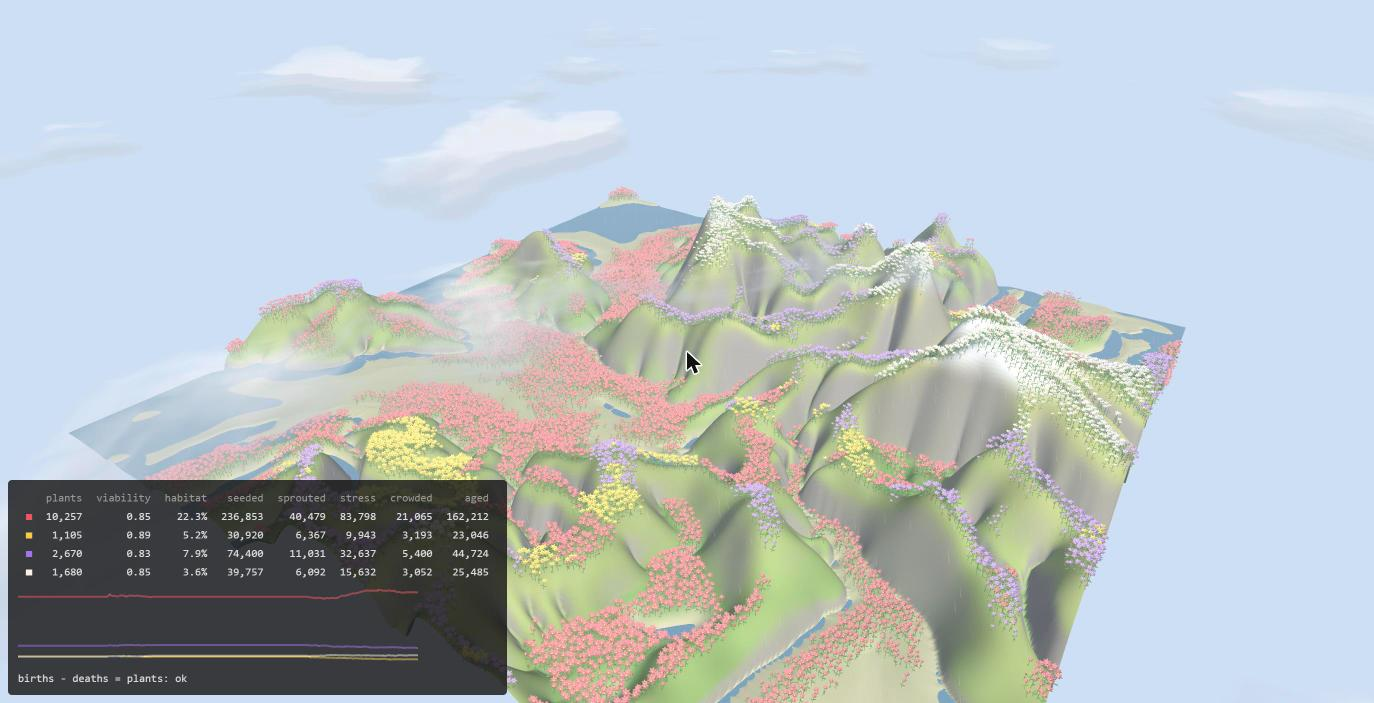
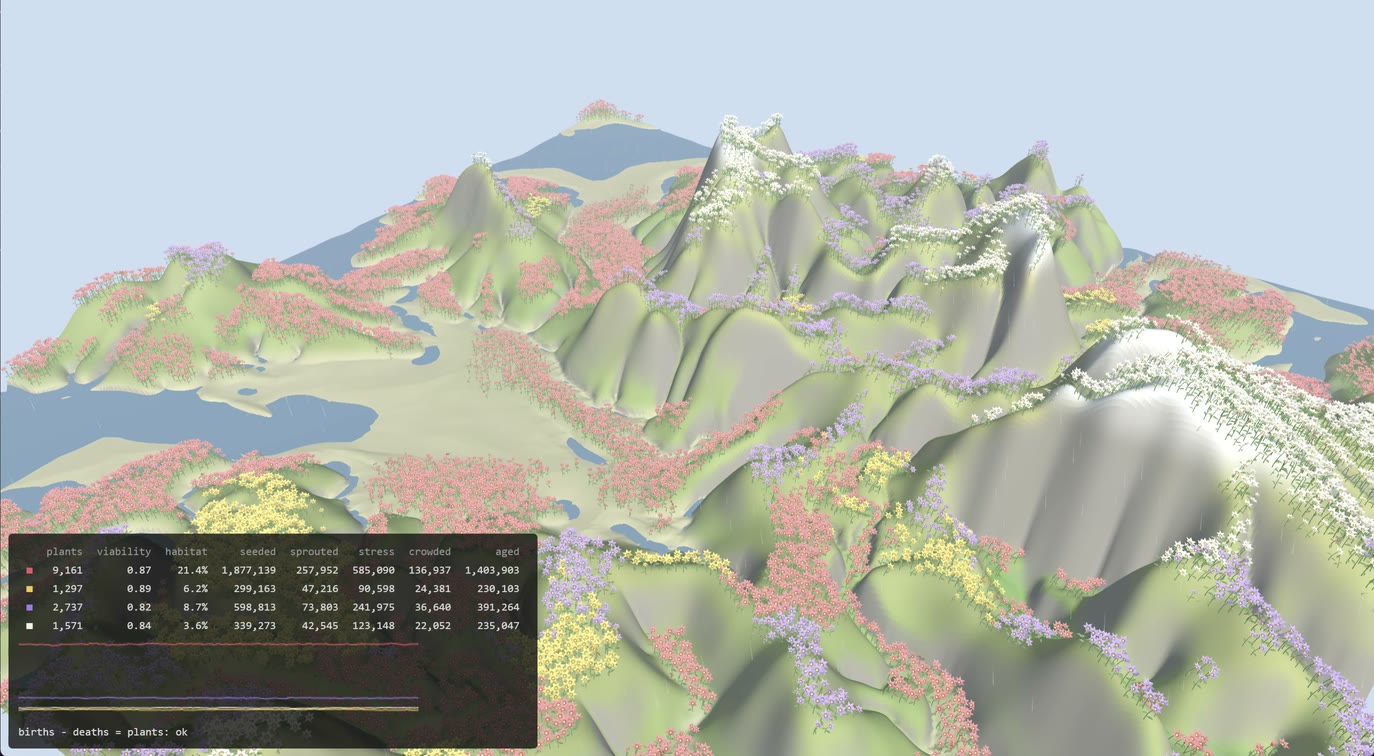
readme: ecosystem M1 write-up, new M2 pictures

diff --git a/README.md b/README.md
@@ -81,10 +81,20 @@ M1 timing (the M1 passes and defaults, before the M2 transport rewrite): one ful
 
 ### Ecosystem track
 
+Planned for M1: species placement over a terrain and a live or die time step. Done, on a stand-in terrain until the erosion track merged.
+
 Rules follow Cordonnier et al. 2017, cut down to live or die. Every cell scores each species
 on height, slope and moisture. Empty cells get seeded from plants nearby, occupied cells age
-and die faster the worse they fit. `play` steps the simulation, `view` switches between the
-shaded scene and the height, moisture, slope, species and viability maps.
+and die faster the worse they fit.
+
+Everything runs on the GPU in three passes:
+
+- step: one compute pass over the 512 x 512 grid applies the rules to every cell
+- compact: a second pass packs the living plants into one instance list and counts them
+- draw: one indirect draw call for all plants, so the CPU never learns how many there are
+
+`play` steps the simulation, `view` switches between the shaded scene and the height,
+moisture, slope, species and viability maps.
 
 ### Parametric track
 
@@ -170,7 +180,7 @@ Planned: ground-level navigation, wind controls with flower sway, a check of whe
 
 ![Walking through the meadow in wind and rain](media/ecosystem/eco_m2_walk.jpg)
 
-*Seed 1 at 150k erosion steps, wind strength 1.6, rain rate 0.002.*
+*Seed 1 at 60k erosion steps, wind strength 1.9, rain rate 0.002.*
 
 #### Walking and wind
 
@@ -184,7 +194,7 @@ Planned: ground-level navigation, wind controls with flower sway, a check of whe
 
 ![Population panel over the map](media/ecosystem/eco_m2_census.jpg)
 
-*Seed 1 at 150k erosion steps with `play` on.*
+*Seed 1 at 60k erosion steps with `play` on.*
 
 The step pass also counts births, split into seeded by a neighbour and sprouted from the seed bank, and deaths by cause: stress, crowding and old age. Two checks come out of that:
 
